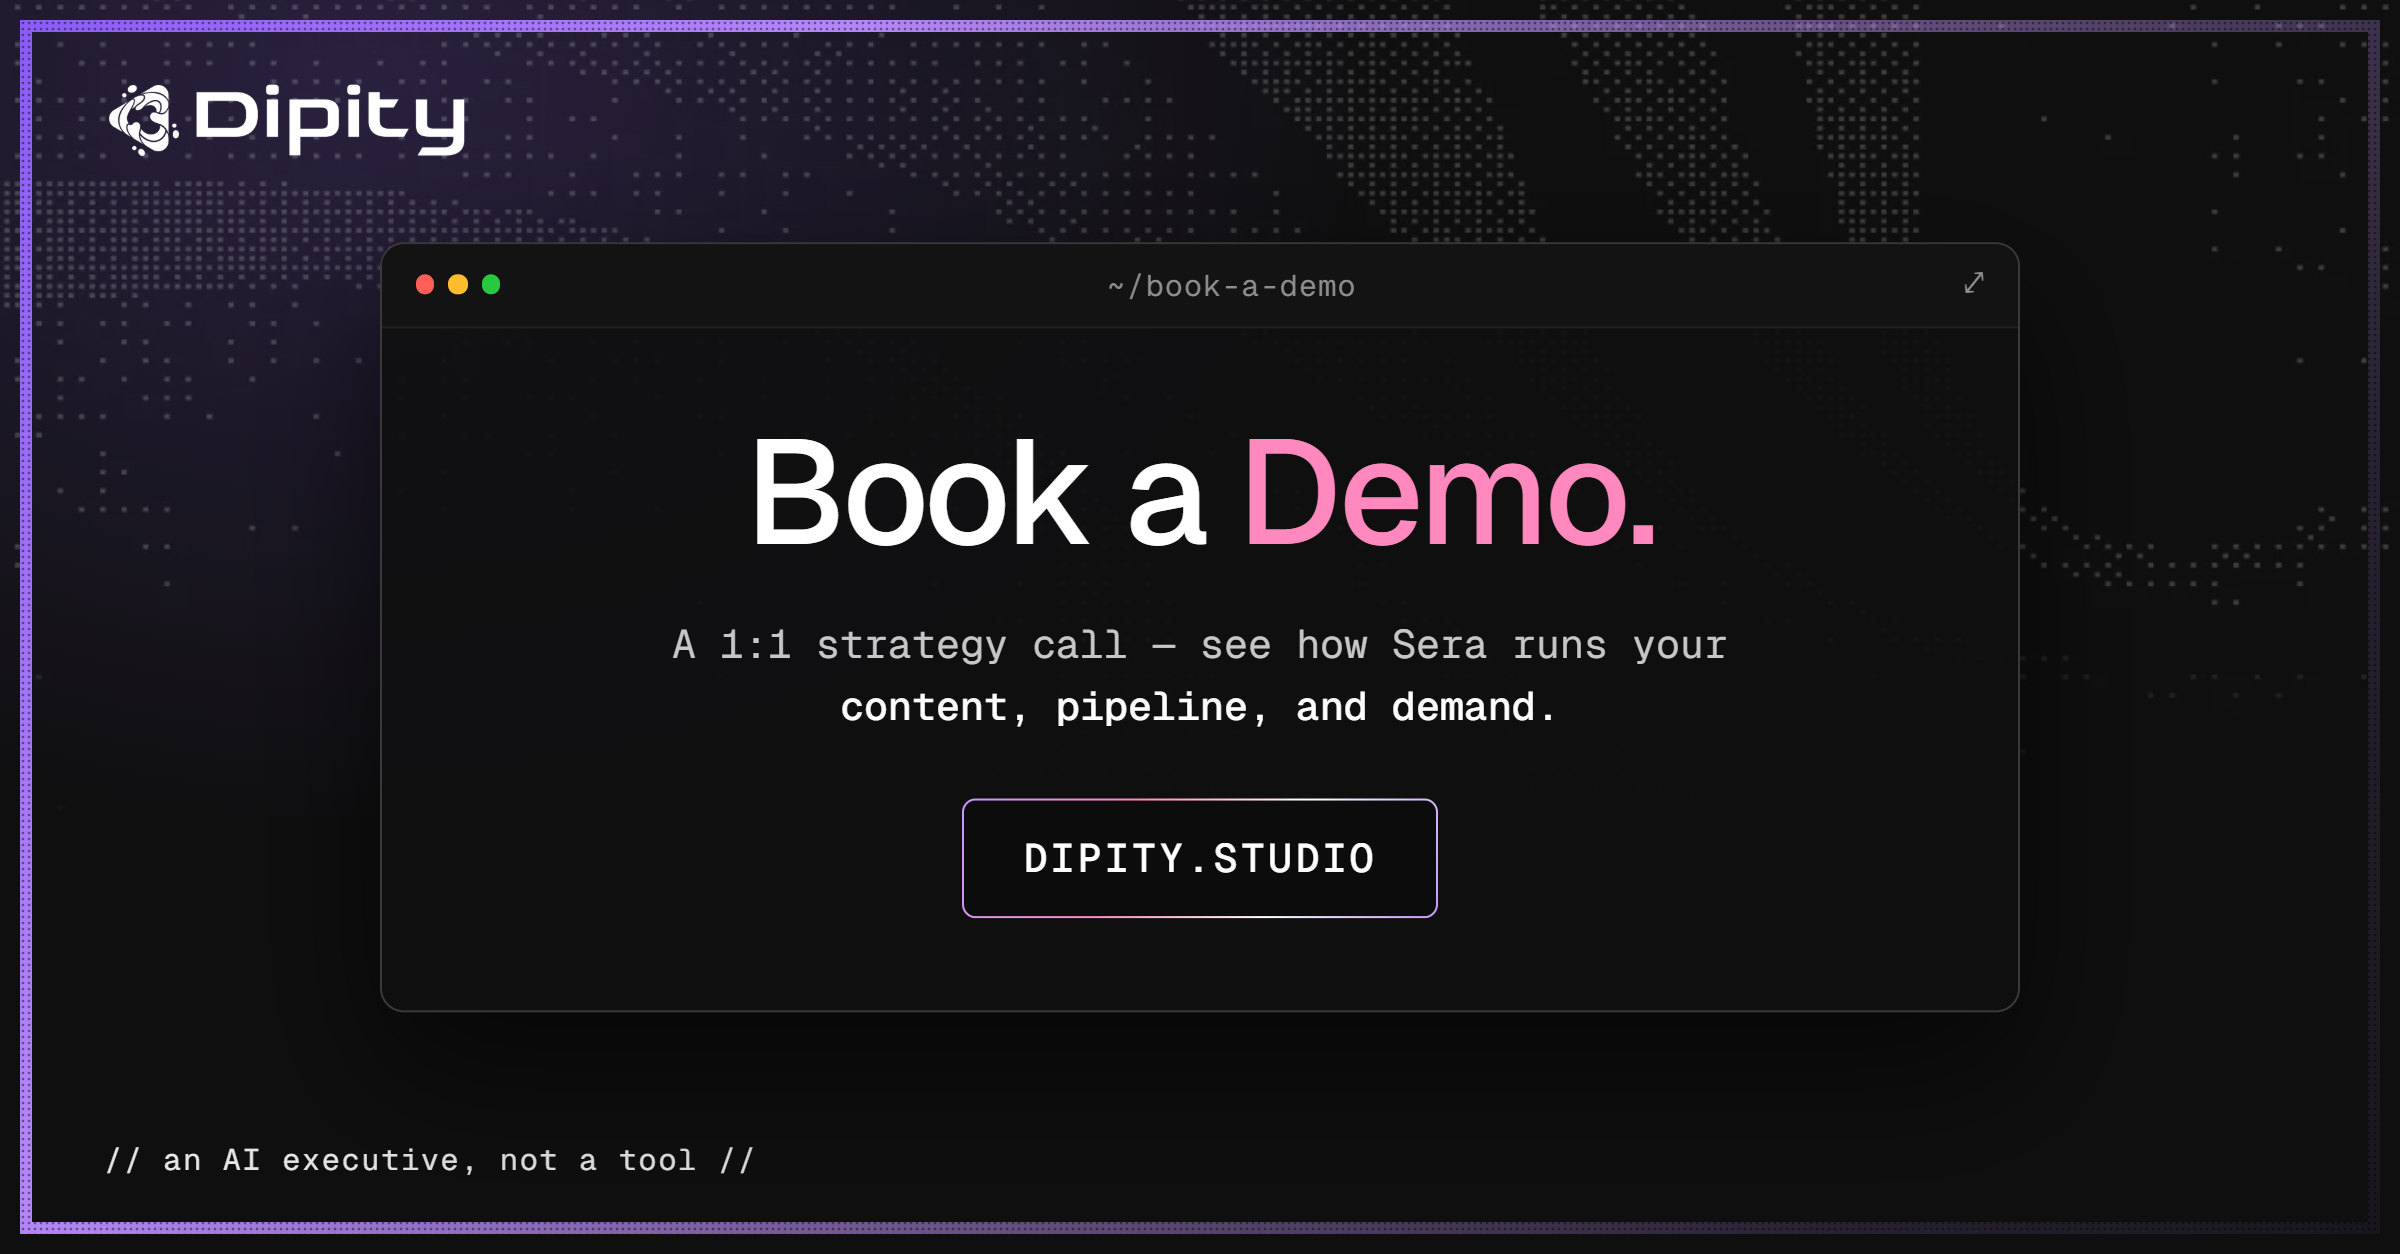
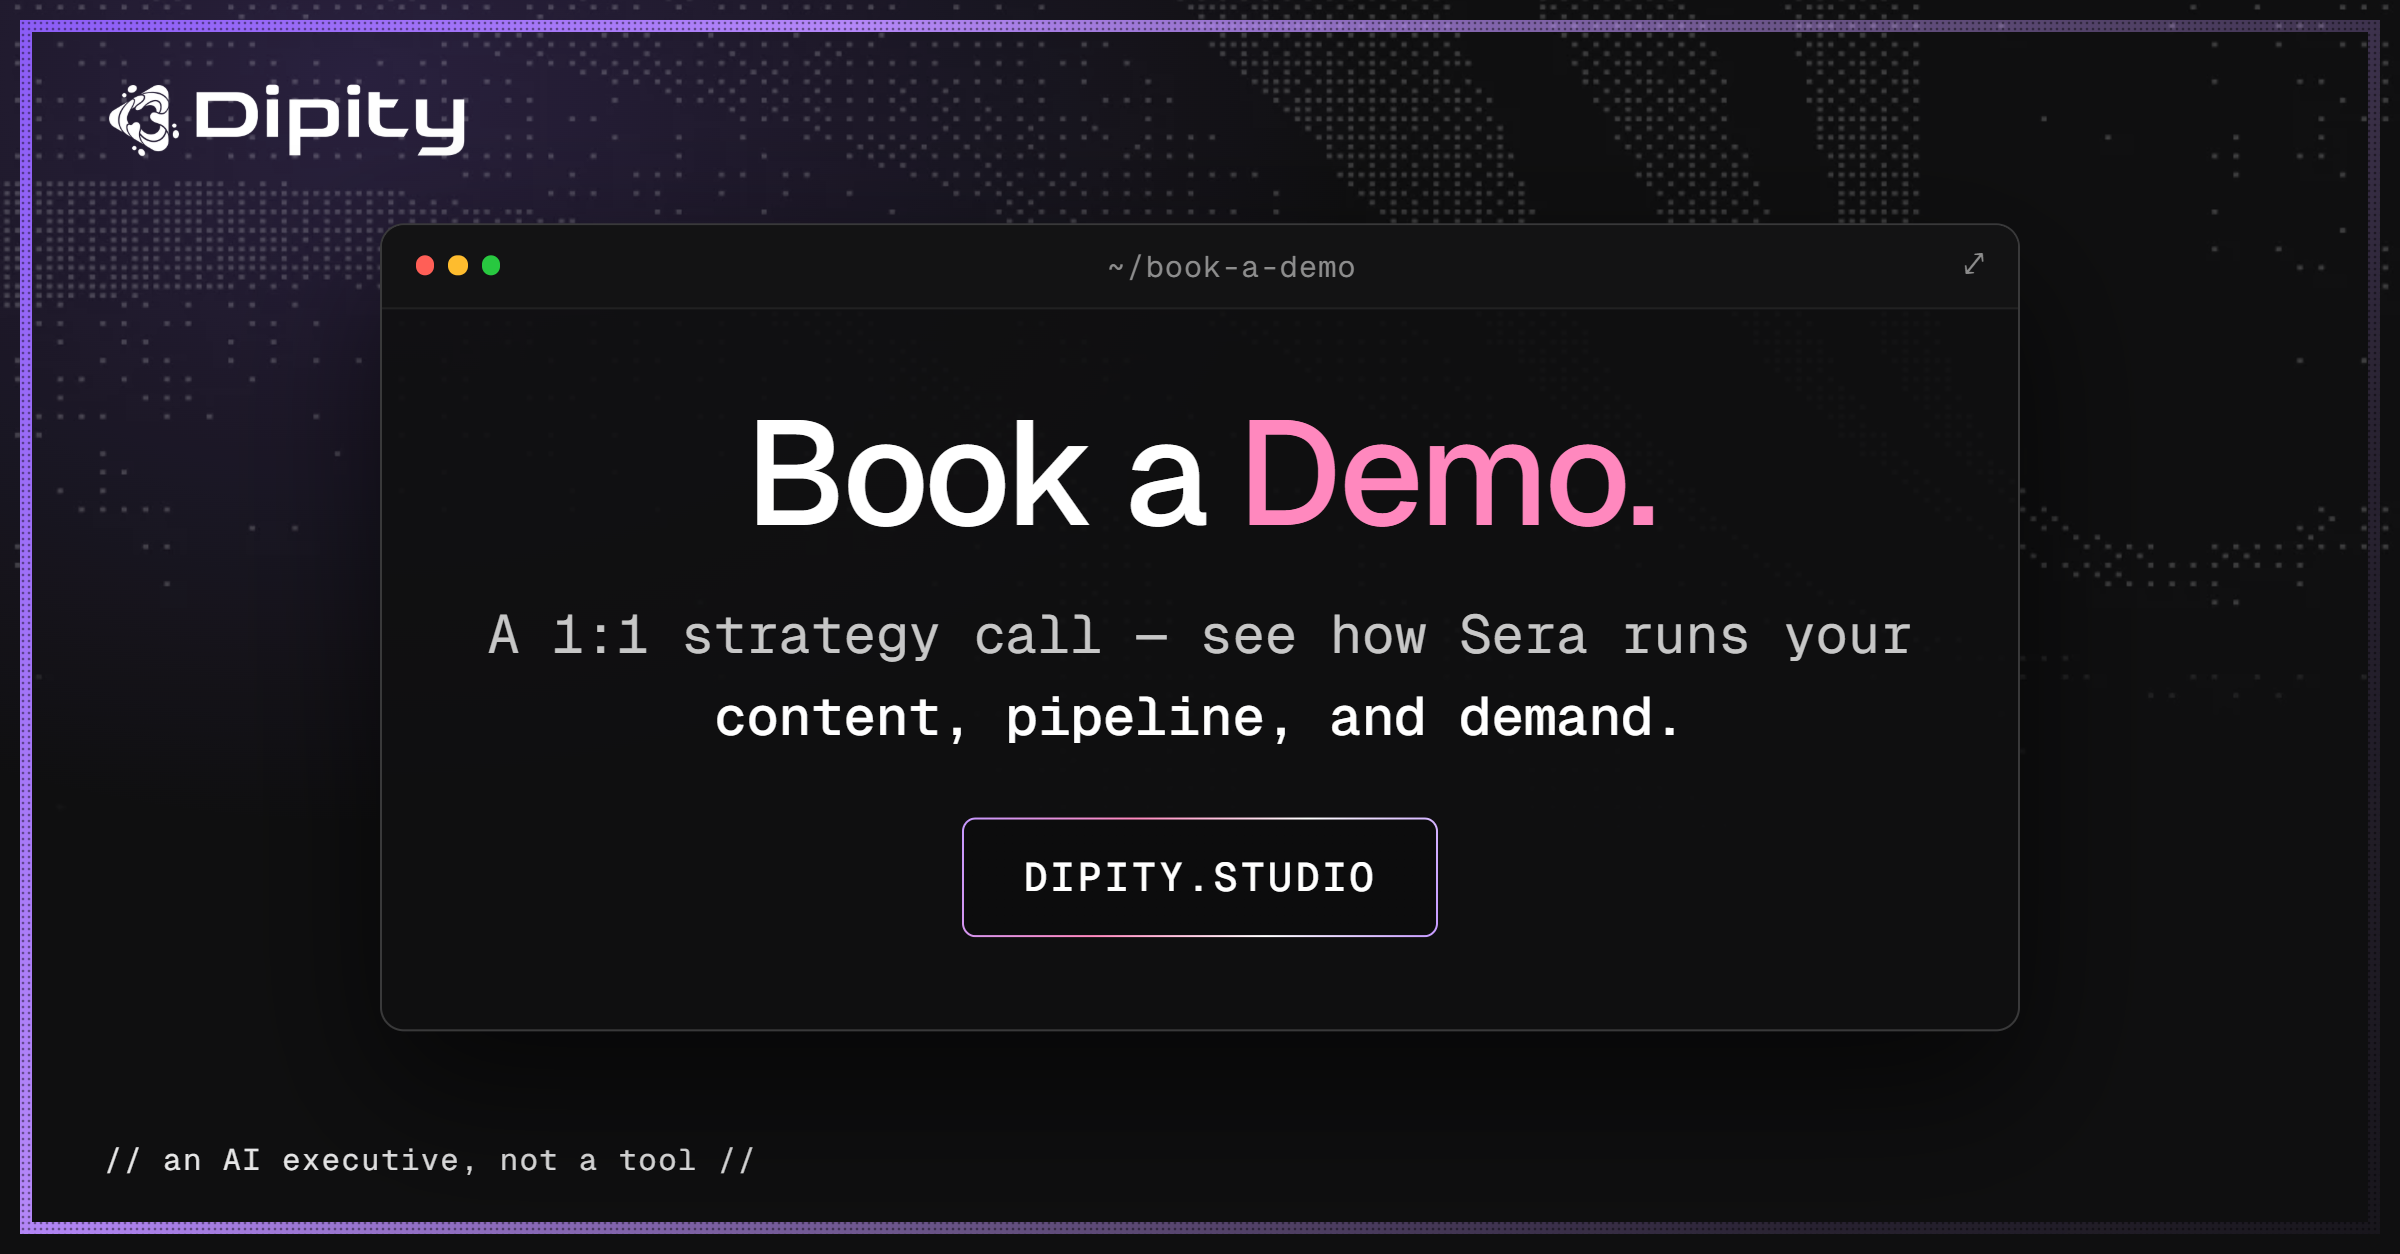
Featured cards: larger supporting text (20->27px)

diff --git a/banners/featured.html b/banners/featured.html
@@ -44,7 +44,7 @@ body{background:#333;font-family:'Geist',sans-serif;-webkit-font-smoothing:antia
 .pbody h1{font-weight:500;line-height:1.05;letter-spacing:-.025em;font-size:74px}
 .pbody h1 .acc{color:var(--accent)}
 .pbody h1 .pk{color:var(--pink)}
-.pbody .sub{font-family:'Geist Mono',monospace;color:var(--soft);line-height:1.55;font-size:20px;margin-top:22px}
+.pbody .sub{font-family:'Geist Mono',monospace;color:var(--soft);line-height:1.5;font-size:27px;margin-top:22px}
 .pbody .sub b{color:#fff;font-weight:500}
 .cta{display:inline-block;font-family:'Geist Mono',monospace;letter-spacing:.08em;text-transform:uppercase;color:#fff;border-radius:7px;font-weight:500;font-size:20px;padding:.8em 1.5em;margin-top:30px;border:1.5px solid transparent;background:linear-gradient(#0c0c0d,#0c0c0d) padding-box,linear-gradient(110deg,#c599ff,#ff88be,#ffffff,#c599ff) border-box}
 </style>
